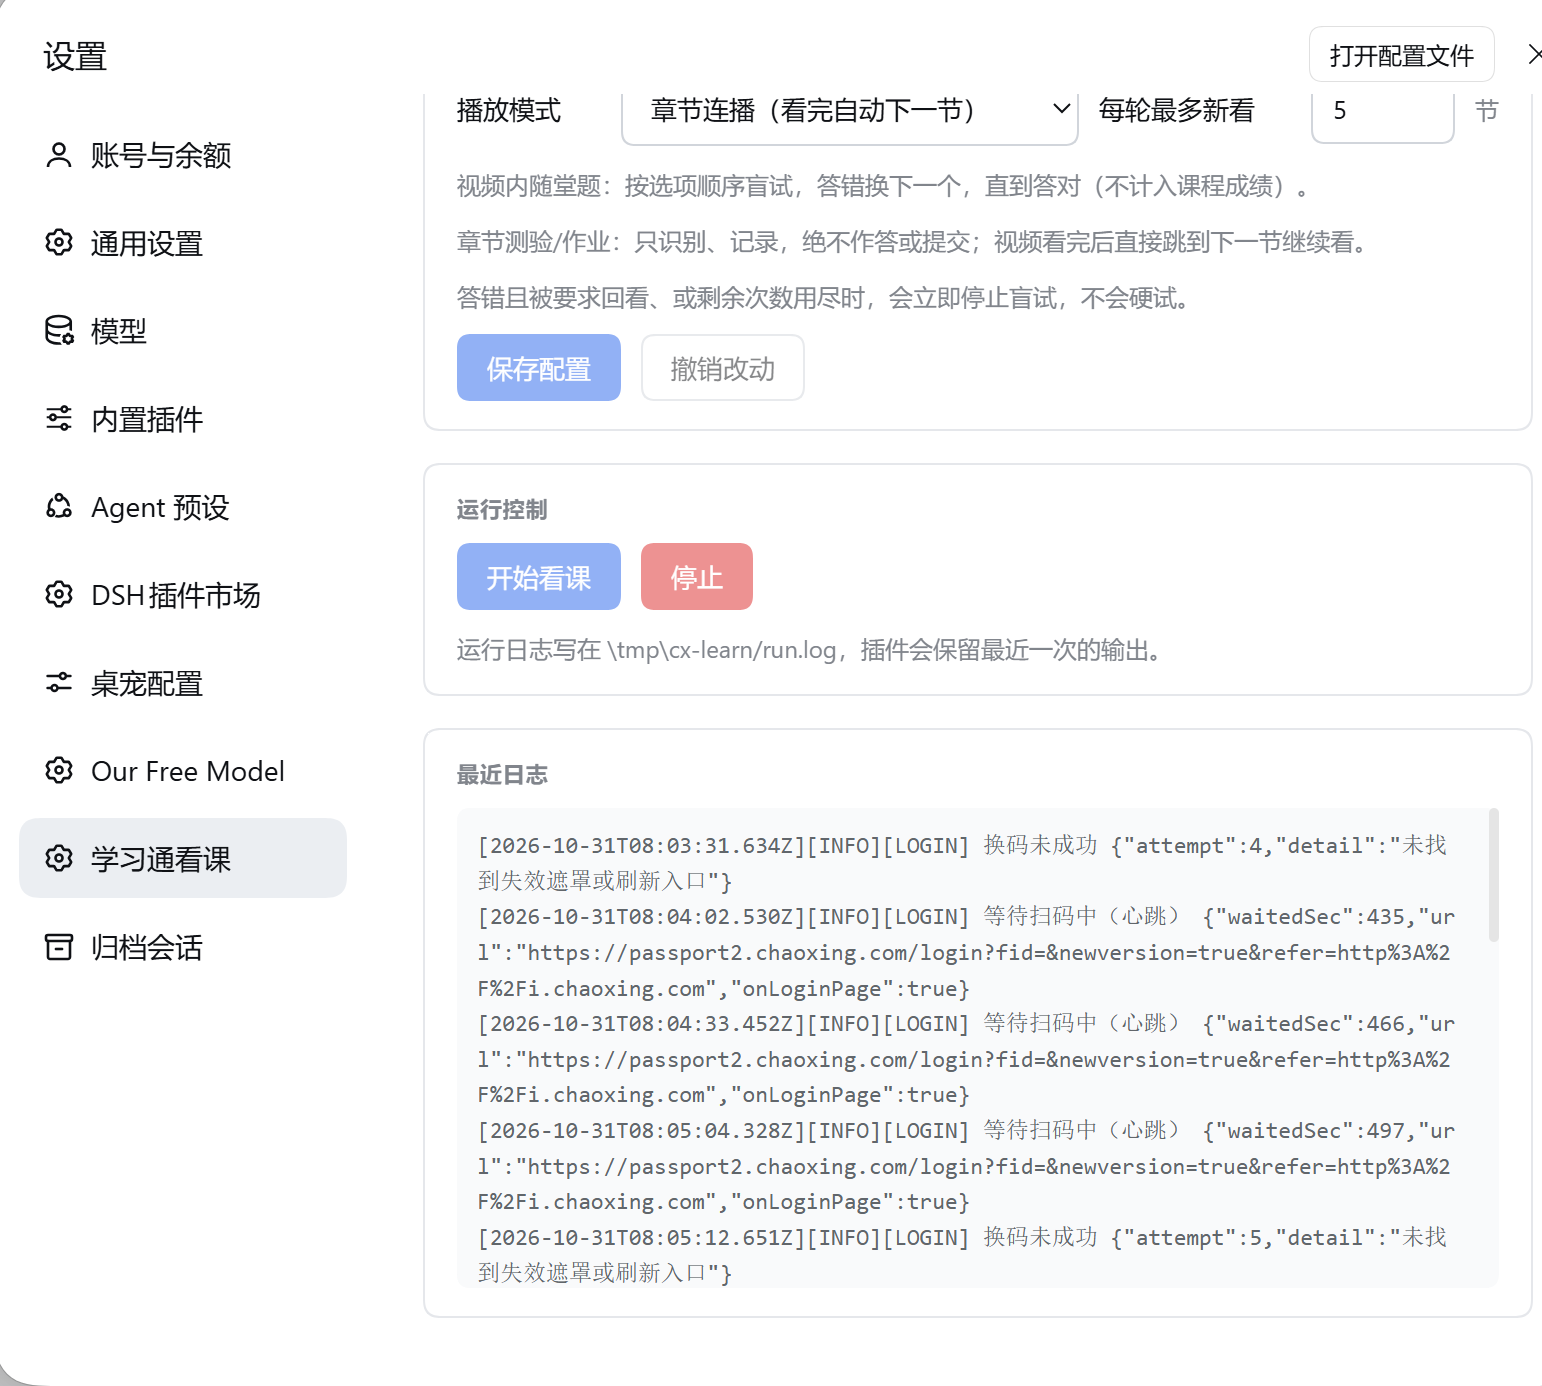
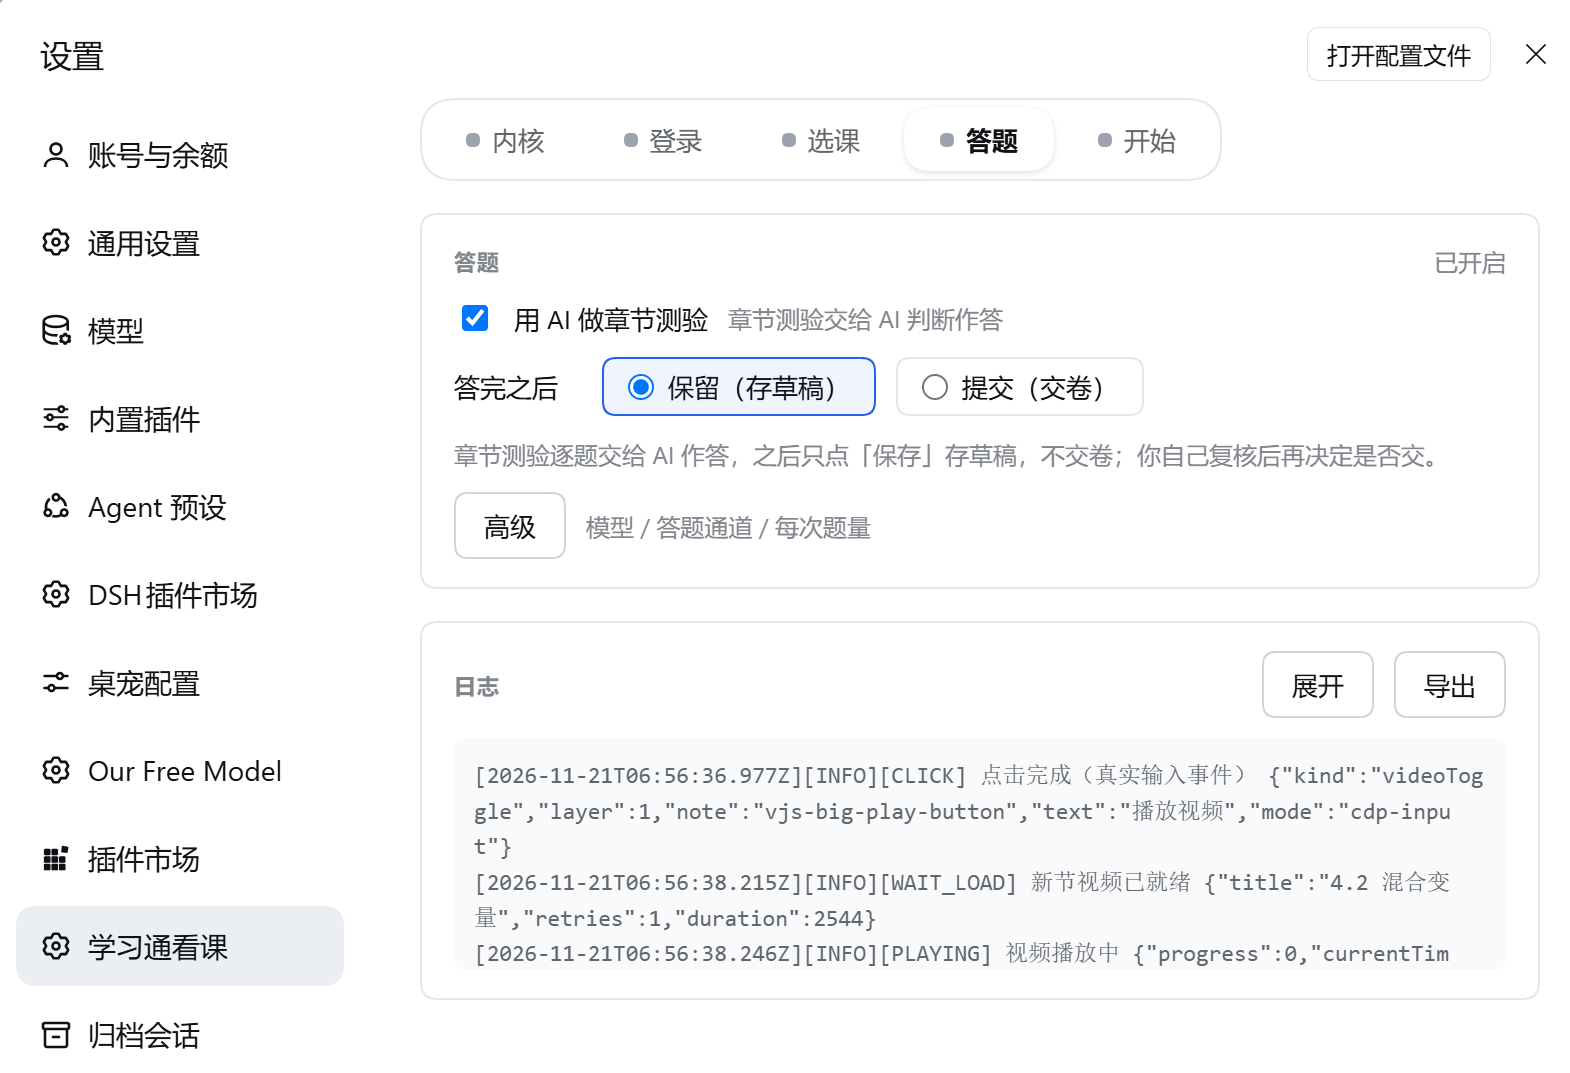
docs(readme): 更新运行实例配图与图注
- 换掉 0.2.0 时代的旧截图（旧界面含「章节测验只识别、绝不作答或提交」的过期安全声明）
- 新图：当前版本「答题」页（章节测验交给 AI 作答、默认只存草稿不交卷）+ 实时日志
- 图注同步更新

diff --git a/README.md b/README.md
@@ -55,9 +55,9 @@
 
 ## 运行实例
 
-![设置页：课程业务与最近日志](assets/screenshot-course.png)
+![设置页：答题策略与实时日志](assets/screenshot-course.png)
 
-*设置页：课程业务区（播放模式、每轮最多新看节数、保存配置）与运行控制（开始看课 / 停止），下面是实时日志。*
+*设置页·「答题」：章节测验逐题交给 AI 作答，默认只「保留（存草稿）」不交卷，你可复核后再决定是否提交；下方是实时日志（标签页还有 内核 / 登录 / 选课 / 开始）。*
 
 ## 安装
 
